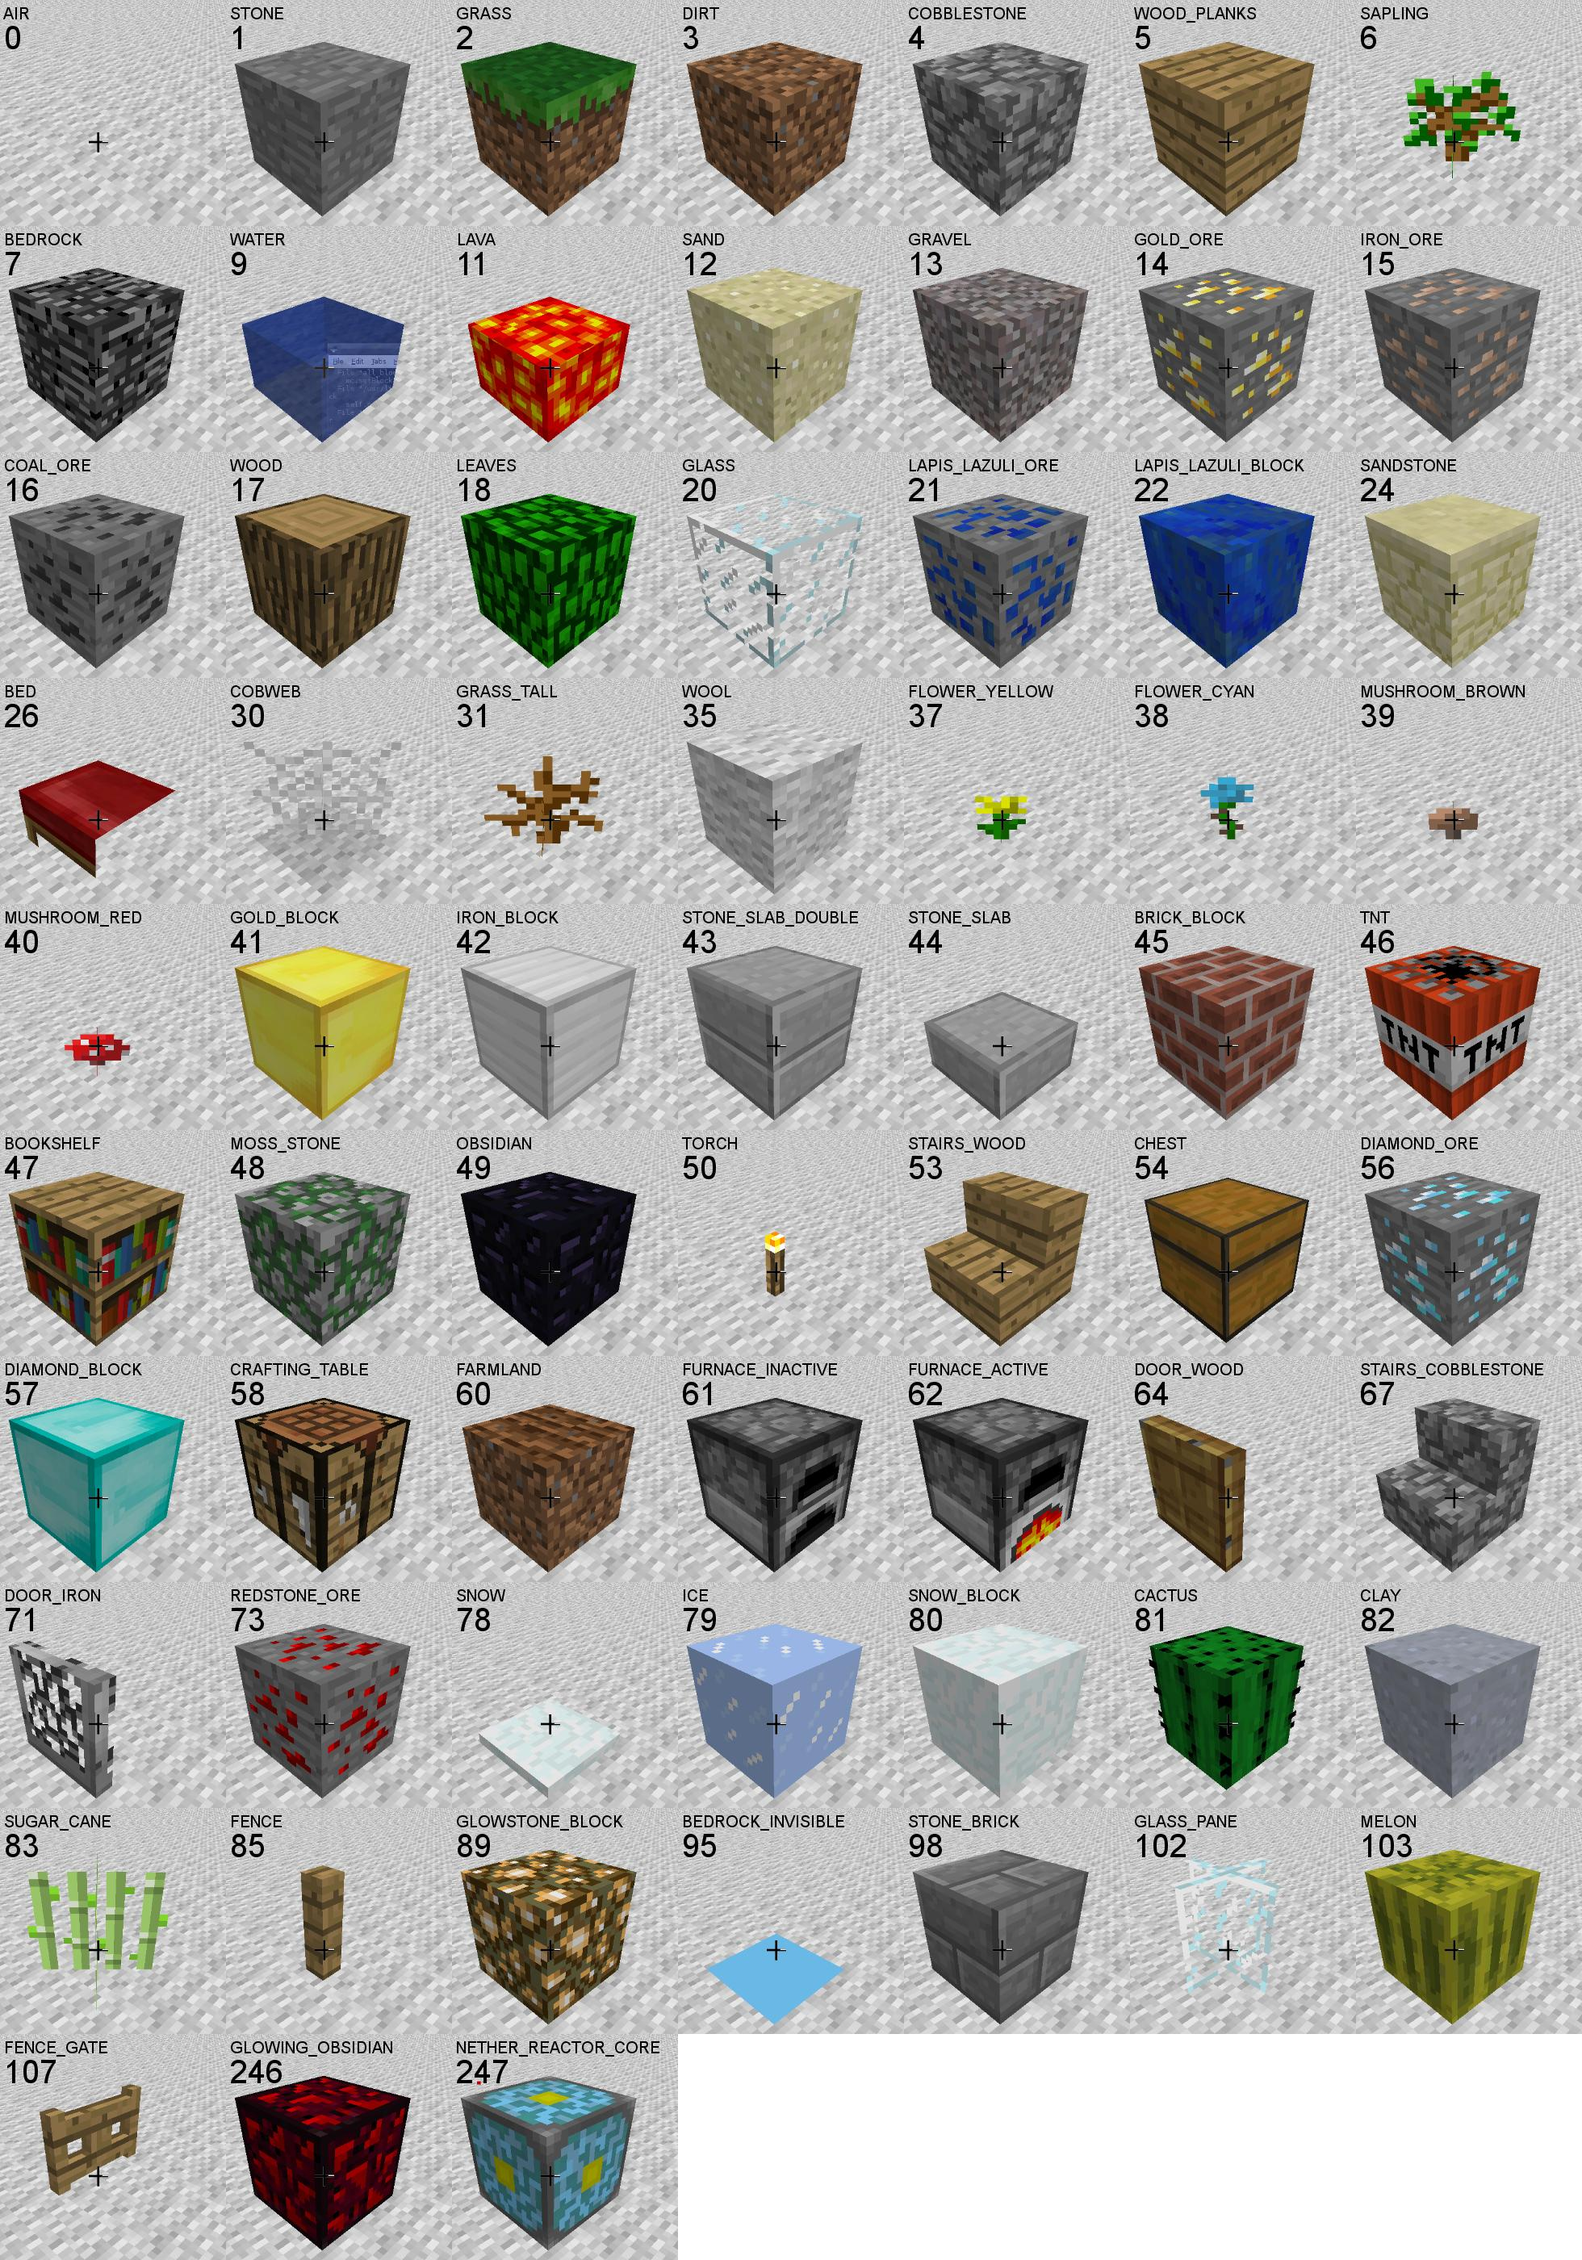
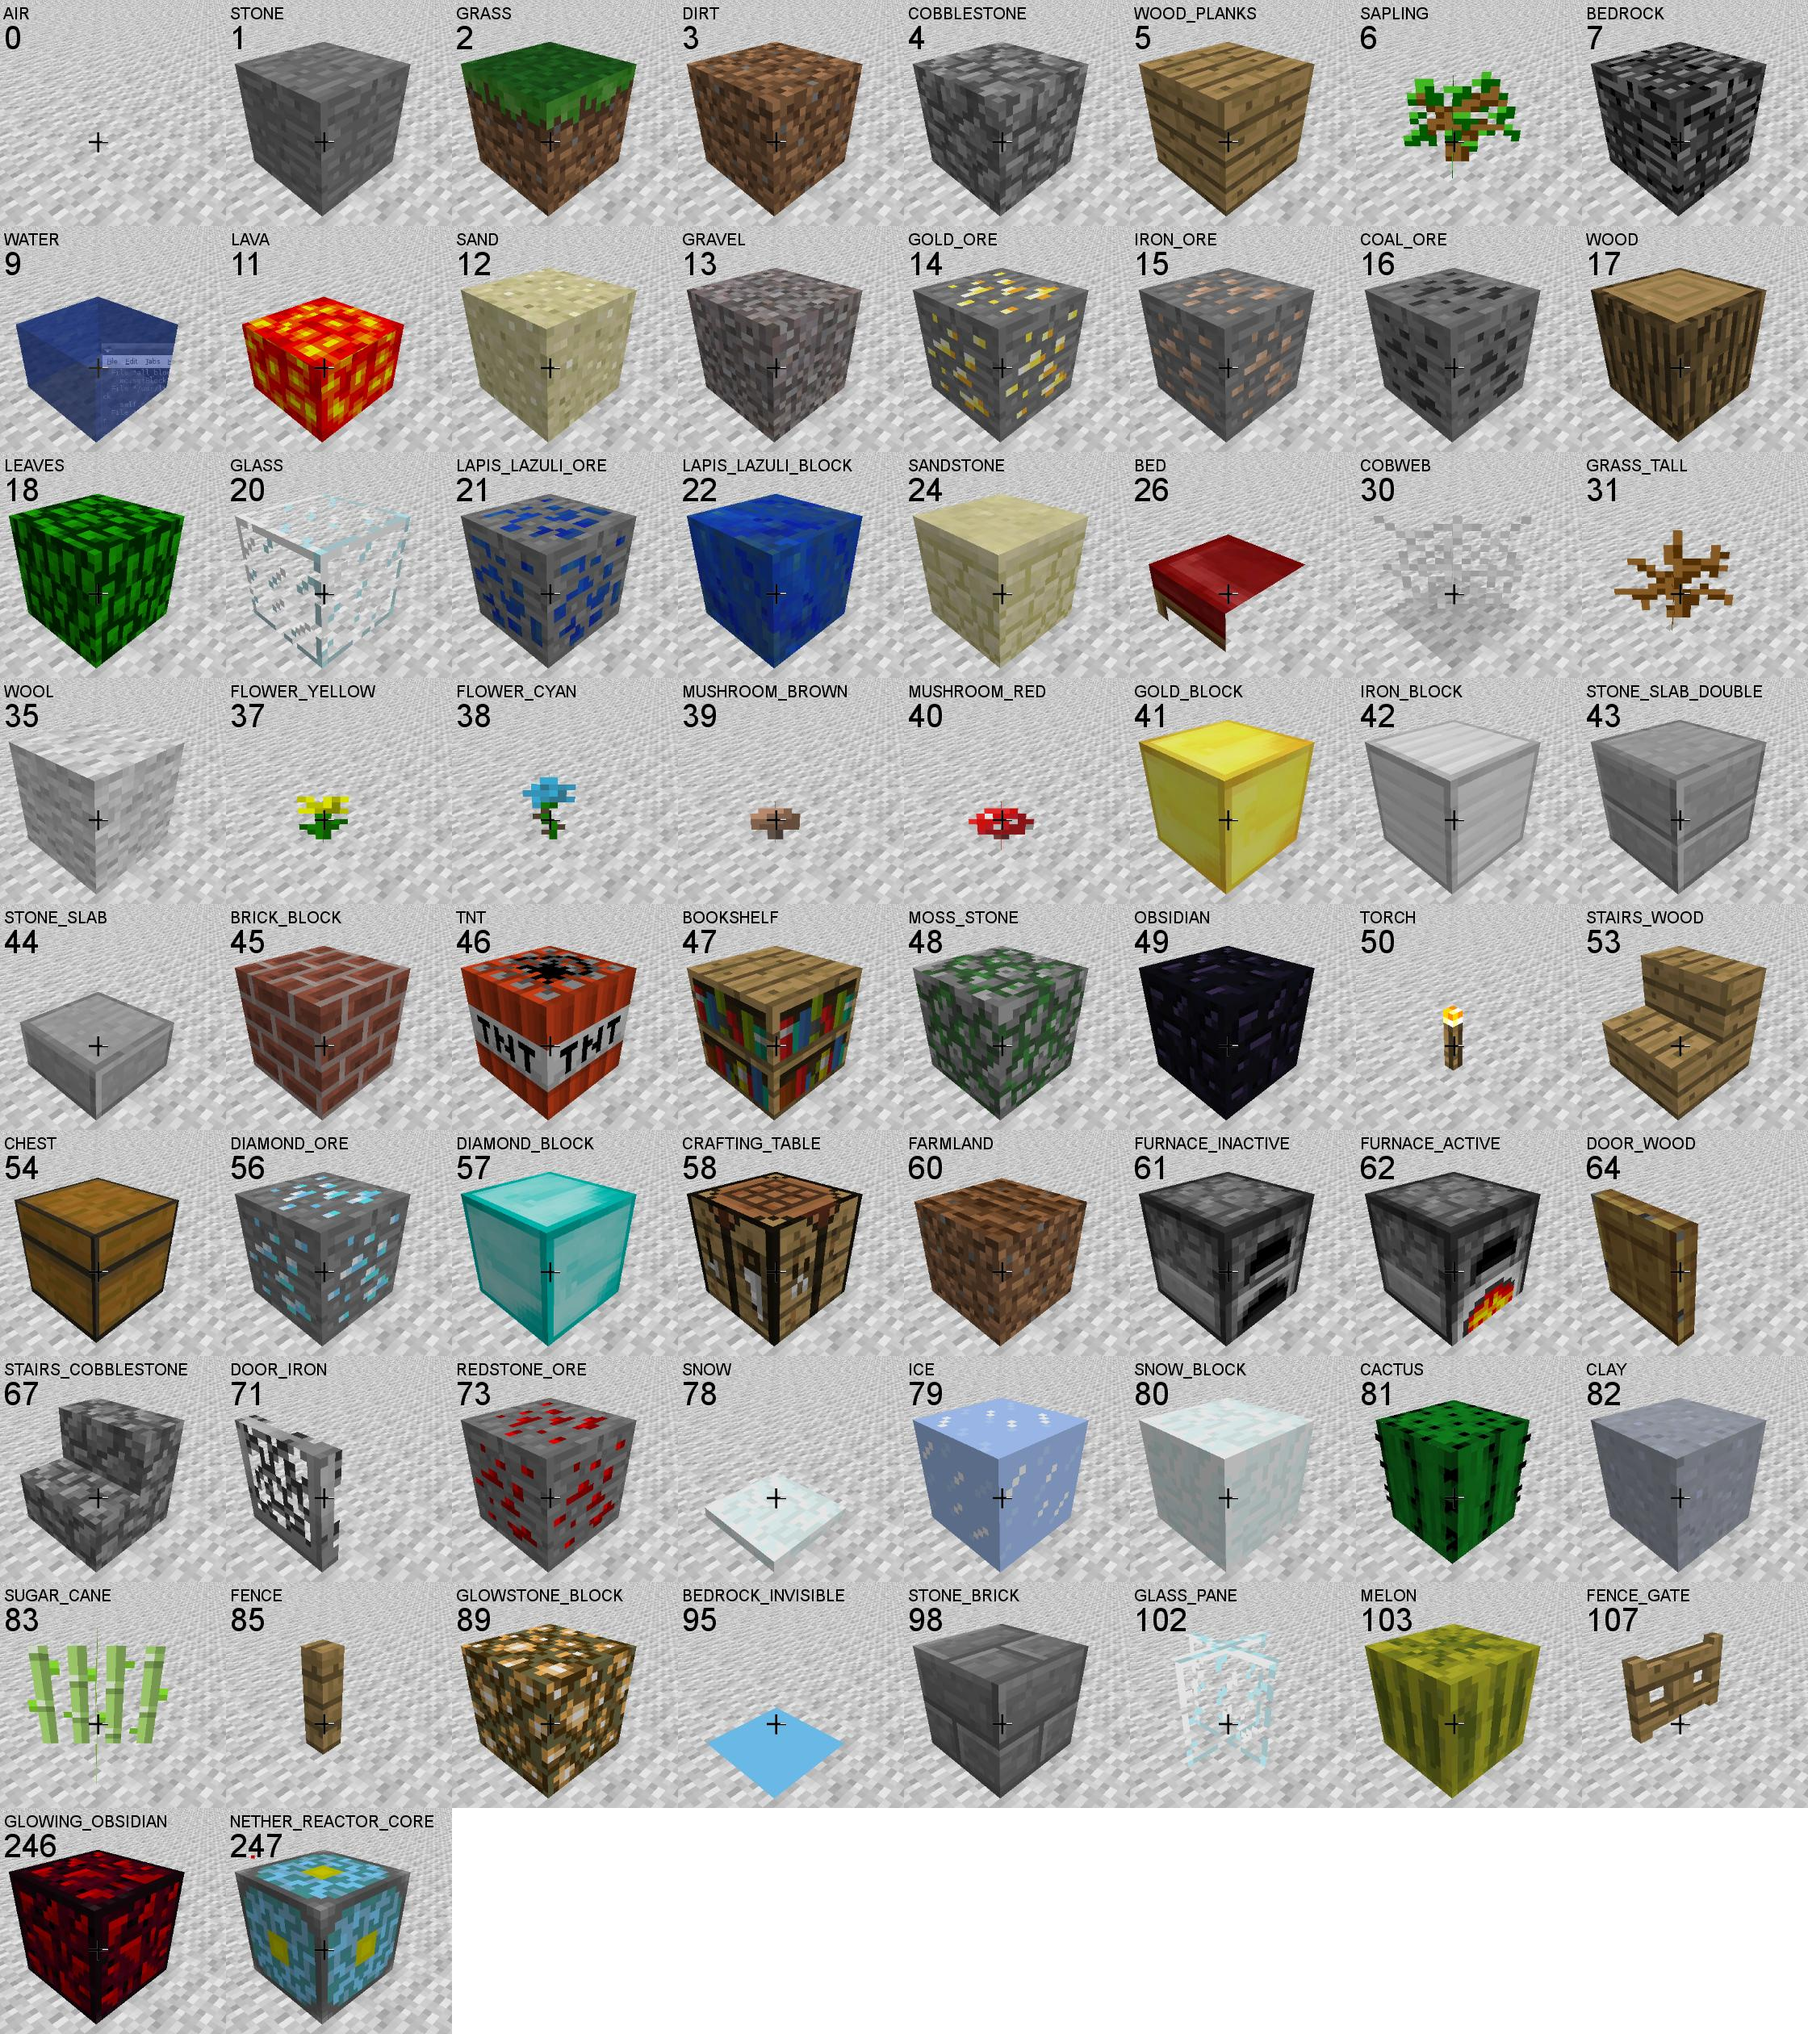
resized

diff --git a/make_block_pic/montage.py b/make_block_pic/montage.py
@@ -12,7 +12,7 @@ with open(id_file) as fh:
 #how big we want the montage to be
 crop_width = 280
 crop_y_offset = 50
-x_tiles = 7
+x_tiles = 8
 print(len(block_nums))
 y_tiles = int(math.ceil(len(block_nums) / float(x_tiles)))
 mont_width = x_tiles * crop_width
